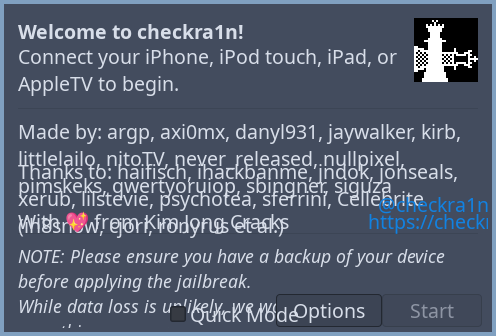
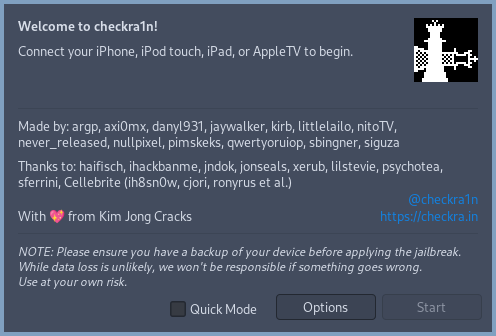
Replace checkra1n GUI image with one from a regular DPI monitor

diff --git a/content/posts/checkra1n-gui-on-other-distros.md b/content/posts/checkra1n-gui-on-other-distros.md
@@ -8,14 +8,11 @@ keywords = ["checkra1n", "gui", "linux", "arch linux"]
 
 description = """
 You can run the GUI version of checkra1n on non Debian-based distributions.
-(The GUI looks garbled here because I have a high DPI monitor)
 """
 
 showFullContent = false
 toc = true
 +++
-
-*The GUI above looks garbled because I have a high DPI monitor.*
 
 ## Introduction
 
